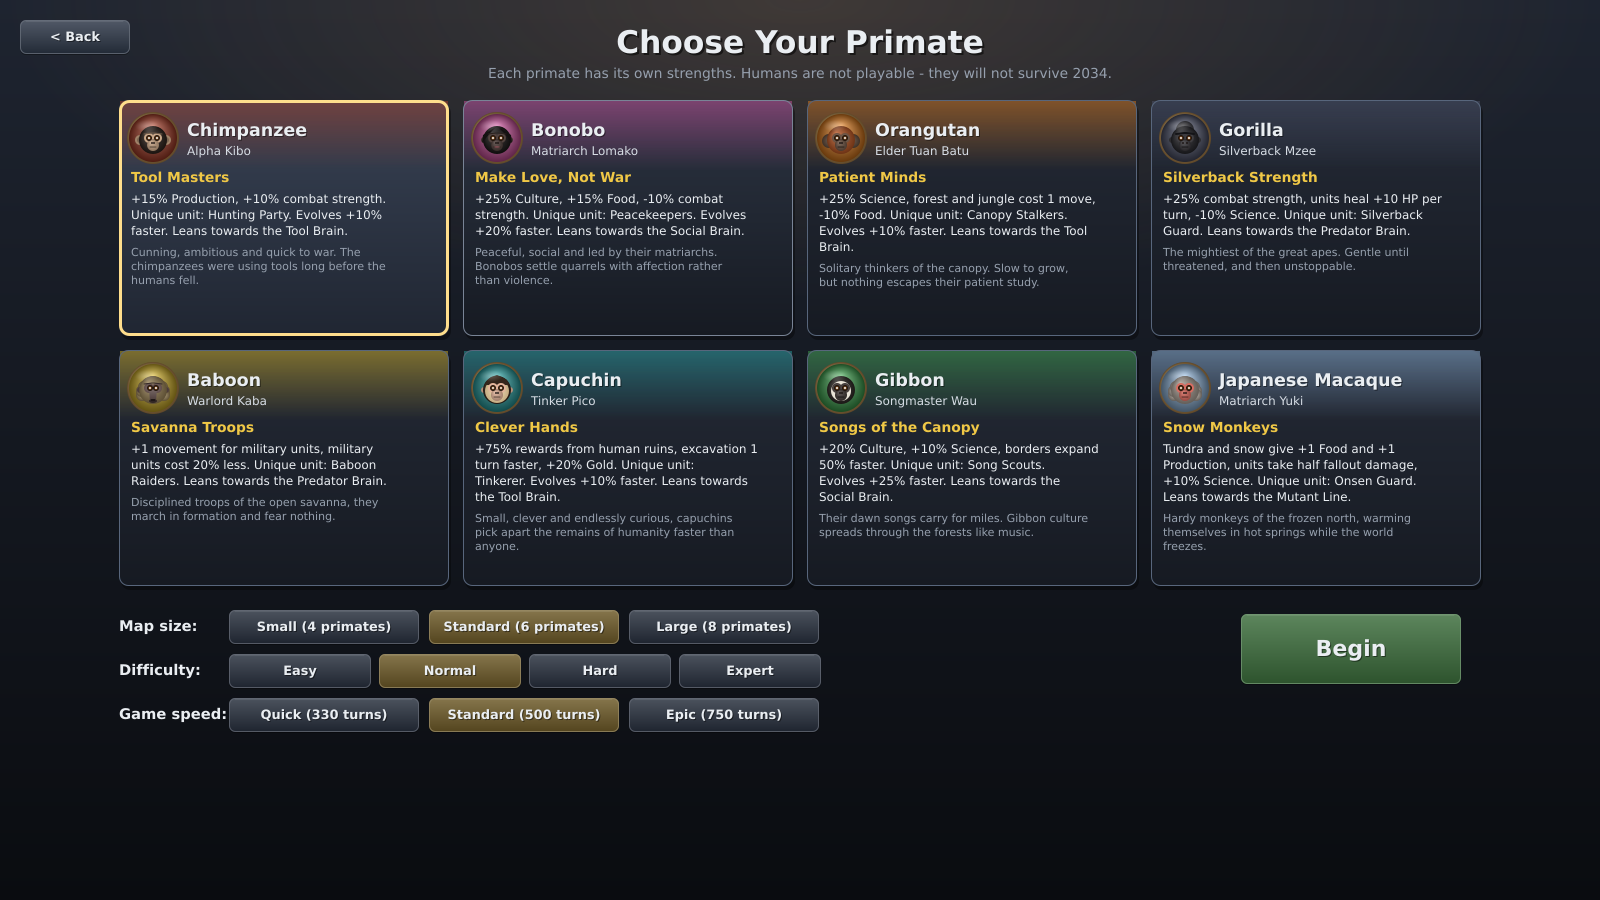
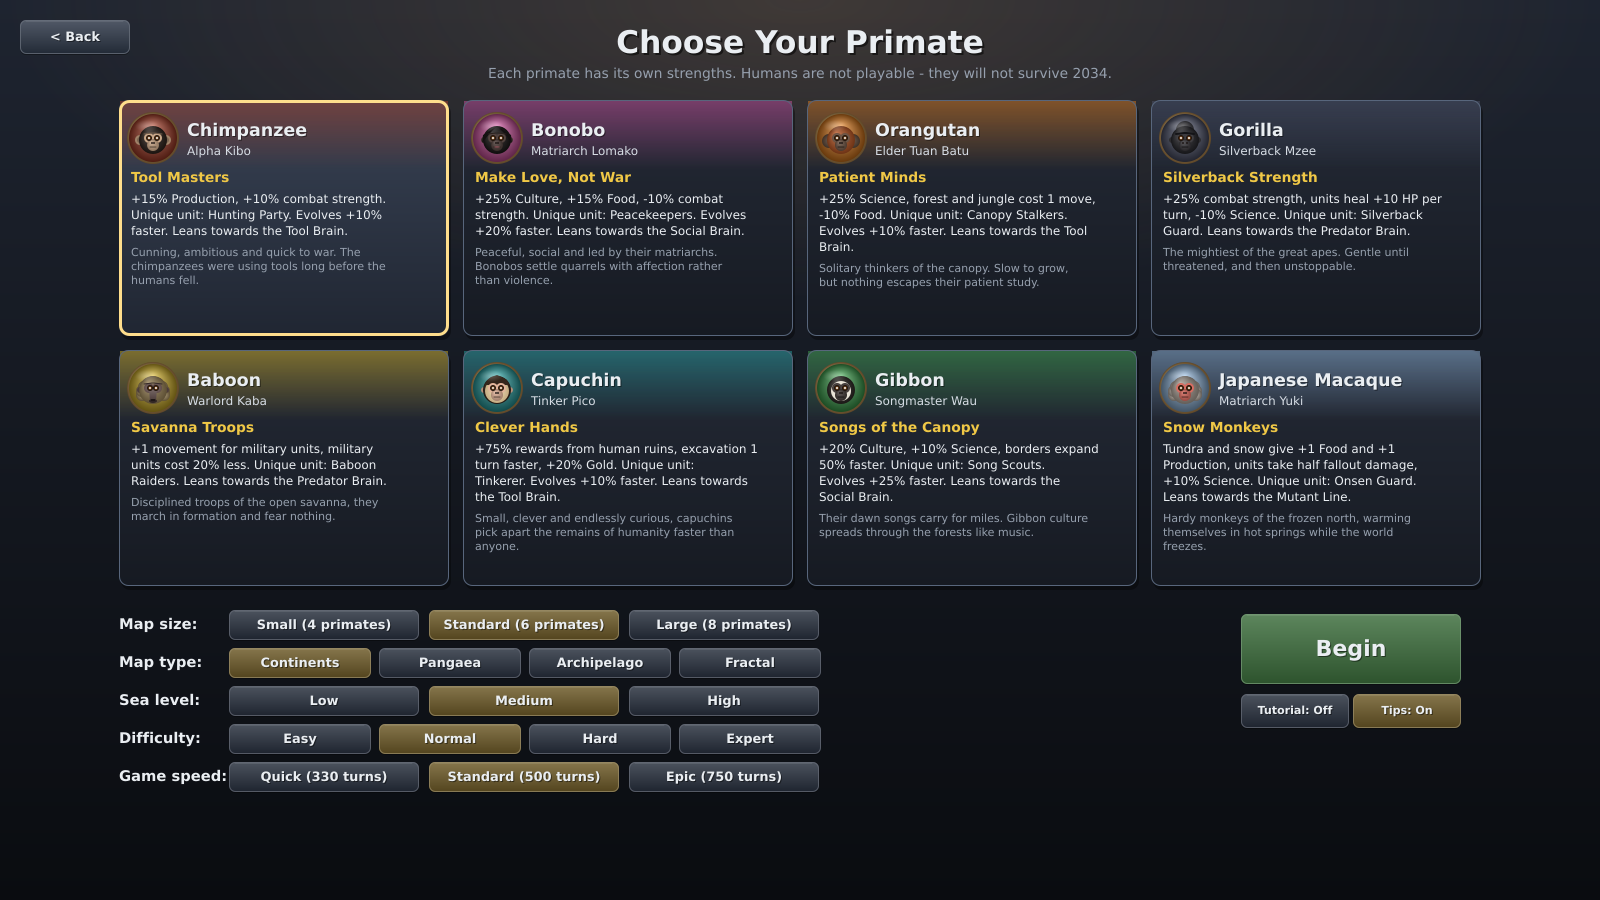
Map types and sea level (0.22.0)
Claude-Session: https://claude.ai/code/session_0122f3TemfsDeFULegBrgGm5

Changed region(s): [[0.0625, 0.6844, 0.5312, 0.9022], [0.75, 0.7467, 0.9375, 0.8089]]

diff --git a/src/core/MapGen.cpp b/src/core/MapGen.cpp
@@ -46,8 +46,10 @@ void Game::generateMap() {
     };
     // Continents: the seams between landmasses wander from top to bottom
     int nCont = settings.mapSize >= 2 ? 3 : 2;
-    Noise seam;
+    Noise seam, channel;
     seam.init(rng, 4, H / 4 + 2);
+    channel.init(rng, W / 4 + 2, H / 4 + 2);
+    std::vector<double> shape(W * H, 0.0);  // the map type's own push up or down, kept apart from the land's relief
     for (int y = 0; y < H; y++)
         for (int x = 0; x < W; x++) {
             double e;
@@ -55,36 +57,45 @@ void Game::generateMap() {
                 case MT_PANGAEA: {
                     e = 0.55 * n1.at(x / 7.0, y / 7.0) + 0.3 * n2.at(x / 3.0, y / 3.0) + 0.15 * n3.at(x / 2.0, y / 2.0);
                     double dx = (x - (W - 1) / 2.0) / (W * 0.5), dy = (y - (H - 1) / 2.0) / (H * 0.5);
-                    e -= std::sqrt(dx * dx + dy * dy) * 0.6;  // one landmass in the middle
+                    shape[idx(x, y)] = -std::sqrt(dx * dx + dy * dy) * 0.6 - (1 - edgeF(x, y, 0.08)) * 0.45;  // one landmass in the middle
                     break;
                 }
                 case MT_ARCHIPELAGO:
+                {
                     e = 0.2 * n1.at(x / 7.0, y / 7.0) + 0.5 * n2.at(x / 3.0, y / 3.0) + 0.3 * n3.at(x / 2.0, y / 2.0);
-                    e -= (1 - edgeF(x, y, 0.06)) * 0.45;
+                    // a web of straits cuts the land into islands
+                    double c1 = (channel.at(x / 4.0, y / 4.0) - 0.5) / 0.09, c2 = (channel.at(x / 5.0 + 7.3, y / 5.0 + 3.1) - 0.5) / 0.09;
+                    shape[idx(x, y)] = -(1 - edgeF(x, y, 0.06)) * 0.45 - 0.5 * std::exp(-c1 * c1) - 0.5 * std::exp(-c2 * c2);
                     break;
+                }
                 case MT_FRACTAL:
                     e = 0.45 * n1.at(x / 7.0, y / 7.0) + 0.35 * n2.at(x / 3.0, y / 3.0) + 0.2 * n3.at(x / 2.0, y / 2.0);
-                    e -= (1 - edgeF(x, y, 0.07)) * 0.45;
+                    shape[idx(x, y)] = -(1 - edgeF(x, y, 0.07)) * 0.45;
                     break;
                 default: {  // continents
                     e = 0.6 * n1.at(x / 7.0, y / 7.0) + 0.3 * n2.at(x / 3.0, y / 3.0) + 0.1 * n3.at(x / 2.0, y / 2.0);
-                    e -= (1 - edgeF(x, y, 0.10)) * 0.45;
+                    double sh = -(1 - edgeF(x, y, 0.10)) * 0.45;
                     for (int k = 1; k < nCont; k++) {
                         double cx = W * (double)k / nCont + (seam.at(k * 1.3, y / 4.0) - 0.5) * W * 0.16;
                         double d = (x - cx) / (W * 0.035);
-                        e -= 0.6 * std::exp(-d * d);
+                        sh -= 0.6 * std::exp(-d * d);
                     }
+                    shape[idx(x, y)] = sh;
                     break;
                 }
             }
-            elev[idx(x, y)] = e;
+            elev[idx(x, y)] = e + shape[idx(x, y)];
         }
     std::vector<double> sorted = elev;
     std::sort(sorted.begin(), sorted.end());
     static const double SEA_Q[3] = {0.50, 0.58, 0.66};
-    double seaQ = SEA_Q[std::clamp(settings.seaLevel, 0, 2)] + (type == MT_ARCHIPELAGO ? 0.06 : 0.0);
+    double seaQ = SEA_Q[std::clamp(settings.seaLevel, 0, 2)] + (type == MT_ARCHIPELAGO ? 0.03 : 0.0);
     double seaLevel = sorted[(size_t)(sorted.size() * seaQ)];
-    double mountLevel = sorted[std::min(sorted.size() - 1, (size_t)(sorted.size() * (1.0 - (1.0 - seaQ) * 0.06)))];  // ~6% of the land
+    // mountains: the highest ~6% of the land by its own relief, not by the map type's shaping
+    std::vector<double> relief;
+    for (int i = 0; i < W * H; i++) if (elev[i] >= seaLevel) relief.push_back(elev[i] - shape[i]);
+    std::sort(relief.begin(), relief.end());
+    double mountLevel = relief.empty() ? 1e9 : relief[std::min(relief.size() - 1, (size_t)(relief.size() * 0.94))];
     for (int y = 0; y < H; y++)
         for (int x = 0; x < W; x++) {
             Tile& t = at(x, y);
@@ -103,7 +114,7 @@ void Game::generateMap() {
                 else if (rng.chance(0.08)) t.veg = V_FOREST;
             }
             double h = hillN.at(x / 3.0, y / 3.0);
-            if (e > mountLevel || (h > 0.83 && rng.chance(0.5))) { t.mountain = true; t.veg = V_NONE; }
+            if (e - shape[idx(x, y)] > mountLevel || (h > 0.83 && rng.chance(0.5))) { t.mountain = true; t.veg = V_NONE; }
             else if (h > 0.66 || rng.chance(0.05)) t.hills = true;
         }
     // coast
@@ -257,9 +268,34 @@ void Game::placeHumanity() {
 std::vector<Pt> Game::chooseStarts(int count) {
     struct Cand { Pt p; int quality; int bias[5]; };
     std::vector<Cand> cands;
-    for (int relax = 0; relax < 4 && (int)cands.size() < count * 6; relax++) {
-        cands.clear();
+    // landmass sizes: a species starting on a scrap of island has no room to grow
+    std::vector<int> mass(W * H, -1), massSize;
+    for (int y0 = 0; y0 < H; y0++)
+        for (int x0 = 0; x0 < W; x0++) {
+            if (isWater(x0, y0) || mass[idx(x0, y0)] >= 0) continue;
+            int id = (int)massSize.size();
+            massSize.push_back(0);
+            std::vector<Pt> stack{{x0, y0}};
+            mass[idx(x0, y0)] = id;
+            while (!stack.empty()) {
+                Pt p = stack.back();
+                stack.pop_back();
+                massSize[id]++;
+                Pt nb[6];
+                int n = neighbors(p.x, p.y, nb);
+                for (int k = 0; k < n; k++) {
+                    if (isWater(nb[k].x, nb[k].y) || mass[idx(nb[k].x, nb[k].y)] >= 0) continue;
+                    mass[idx(nb[k].x, nb[k].y)] = id;
+                    stack.push_back(nb[k]);
+                }
+            }
+        }
+    // Gather spots at every level of strictness, the looser ones marked down, so that a world whose good land
+    // is all in one place still spreads the species out rather than crowding them together.
+    std::vector<uint8_t> added(W * H, 0);
+    for (int relax = 0; relax < 4; relax++) {
         int dCity = 7 - relax, minLand = 12 - relax * 2;
+        int minMass = relax < 3 ? 45 : 30;  // room for a few cities at least
         for (int y = 2; y < H - 2; y++)
             for (int x = 2; x < W - 2; x++) {
                 const Tile& t = at(x, y);
@@ -268,7 +304,8 @@ std::vector<Pt> Game::chooseStarts(int count) {
                 for (auto& s : sites)
                     if (dist(s.x, s.y, x, y) < (s.type == RUIN_CITY ? dCity : 4)) { ok = false; break; }
                 if (!ok) continue;
-                Cand c{{x, y}, 0, {0, 0, 0, 0, 0}};
+                if (added[idx(x, y)]) continue;
+                Cand c{{x, y}, -relax * 12, {0, 0, 0, 0, 0}};
                 int land = 0;
                 for (auto& p : ring(x, y, 2)) {
                     const Tile& tt = at(p.x, p.y);
@@ -281,12 +318,13 @@ std::vector<Pt> Game::chooseStarts(int count) {
                     if (tt.terrain == T_COAST) c.bias[3] += 6;
                     if (tt.terrain == T_TUNDRA || tt.terrain == T_SNOW) c.bias[4] += 6;
                 }
-                if (land < minLand) continue;
+                if (land < minLand || massSize[mass[idx(x, y)]] < minMass) continue;
                 int room = 0;  // land within reach: a start squeezed onto a peninsula is a poor one
                 for (auto& p : ring(x, y, 5)) if (!isWater(p.x, p.y) && !at(p.x, p.y).mountain) room++;
-                c.quality += room / 3;
+                c.quality += room / 3 + std::min(massSize[mass[idx(x, y)]], 400) / 10;
                 if (t.terrain == T_DESERT) c.quality -= 10;
                 if (freshWater(x, y)) c.quality += 6;
+                added[idx(x, y)] = 1;
                 cands.push_back(c);
             }
     }
@@ -294,7 +332,7 @@ std::vector<Pt> Game::chooseStarts(int count) {
     if ((int)cands.size() >= count) {
         // Many tries of farthest-point placement from different first spots; keep the set whose closest
         // pair is furthest apart (then the best land). Spacing beyond 'target' stops mattering.
-        int target = (int)(std::sqrt((double)W * H / count) * 1.1);
+        int target = (int)(std::sqrt((double)W * H / count) * 0.8);
         std::vector<int> bestSet;
         int bestMin = -1, bestQ = INT32_MIN;
         for (int run = 0; run < 48; run++) {

diff --git a/src/ui/GameUI.cpp b/src/ui/GameUI.cpp
@@ -269,8 +269,9 @@ void GameUI::renderSetup() {
         cv->text(x + 68, y + 44, p.leader, 13, rgb(214, 220, 228));
         cv->text(x + 12, y + 70, p.ability, 15, C_GOLD, AL_LEFT, true);
         int ty = textBlock(x + 12, y + 92, cw - 24, p.abilityDesc + (p.evoPct ? " Evolves +" + std::to_string(p.evoPct) + "% faster." : "") + " Leans towards the " + STRAND_NAMES[p.evoLean] + ".", 13, C_TEXT, 3);
-        textBlock(x + 12, ty + 6, cw - 24, p.flavor, 12, C_DIM, 2);
-        hot(x, y, cw, ch, [this, i] { setupPrimate = i; snd->call(i, 0.6f, 0.0f, 0); });
+        bool flavourFits = ty + 6 + (int)wrap(p.flavor, cw - 24, 12).size() * 15 <= y + ch - 4;  // short screens: it moves to the tooltip
+        if (flavourFits) textBlock(x + 12, ty + 6, cw - 24, p.flavor, 12, C_DIM, 2);
+        hot(x, y, cw, ch, [this, i] { setupPrimate = i; snd->call(i, 0.6f, 0.0f, 0); }, flavourFits ? "" : p.flavor);
     }
     int oy = gy + 2 * (ch + gap) + 10;
     const char* sizes[] = {"Small (4 primates)", "Standard (6 primates)", "Large (8 primates)"};

diff --git a/tests/sim.cpp b/tests/sim.cpp
@@ -70,7 +70,7 @@ static void riverTests() {
     for (int i = 0; i < g.W * g.H && tested < 5; i++) {
         int ax = i % g.W, ay = i / g.W;
         const Tile& t = g.tiles[i];
-        if (!g.hasRiver(ax, ay) || t.riverOut < 0 || g.isFalls(ax, ay) || t.site >= 0) continue;
+        if (!g.hasRiver(ax, ay) || t.riverOut < 0 || g.isFalls(ax, ay) || t.site >= 0 || g.cityAt(ax, ay)) continue;
         Pt b;
         if (!g.neighborDir(ax, ay, t.riverOut, b) || g.isFalls(b.x, b.y) || g.cityAt(b.x, b.y)) continue;
         g.units.clear();

diff --git a/README.md b/README.md
@@ -196,6 +196,9 @@
   | Reclamation / Industrial / Modern / Rebirth | 10 / 5 / 2 / 1 |
 
   Evolution therefore unfolds over a hundred thousand years or so, while recorded history takes a few thousand, slowing to a year per turn at the end as in *Civilization*. Other speeds scale the years per turn so a game spans similar history.
+* **Map types and sea level**, chosen at setup: **Continents** (two great landmasses, three on large maps, split by ocean), **Pangaea** (one huge landmass - neighbours close, wars by land), **Archipelago** (many islands cut by straits - boats decide everything) and **Fractal** (wild land of every shape and size); sea level **Low** (about half the world is land), **Medium** (about 42%) or **High** (about a third). Every species starts with room to grow on a landmass of its own size, spread as far apart as the land allows.
+
+  ![Map types (columns: Continents, Pangaea, Archipelago, Fractal) at low, medium and high sea level (rows); red dots are the starting spots](docs/screenshots/39_map_types.png)
 * **Three game speeds**, chosen at setup as in *Civilization VI*:
 
   | Speed | Turn limit | Pace |
